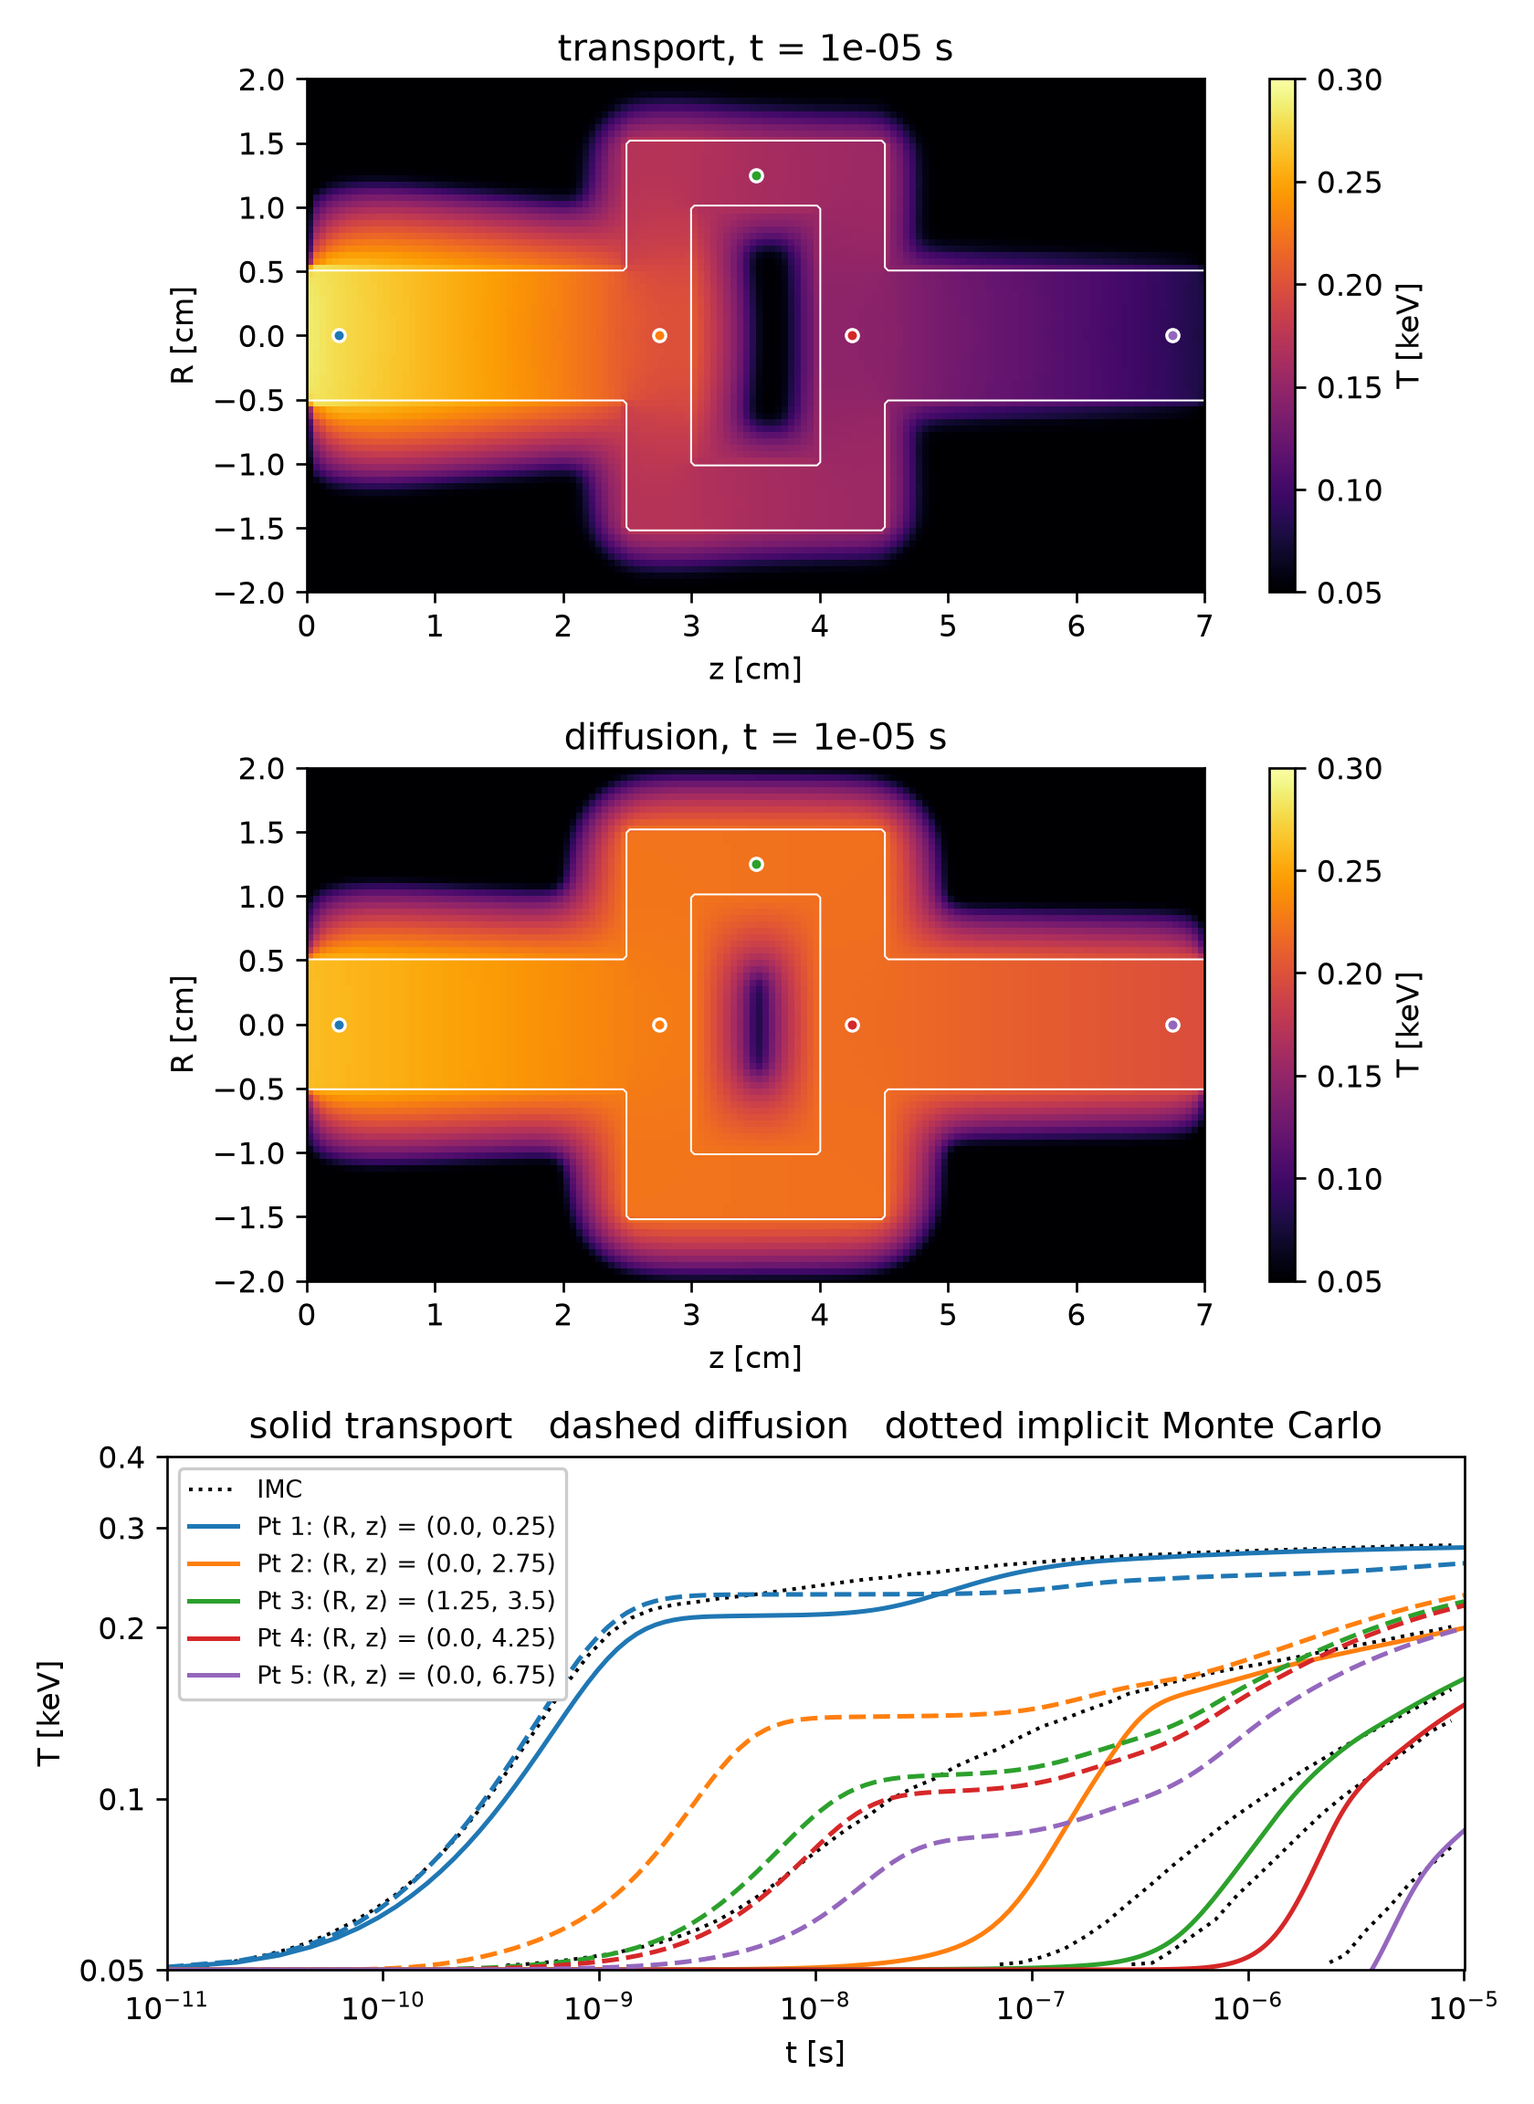
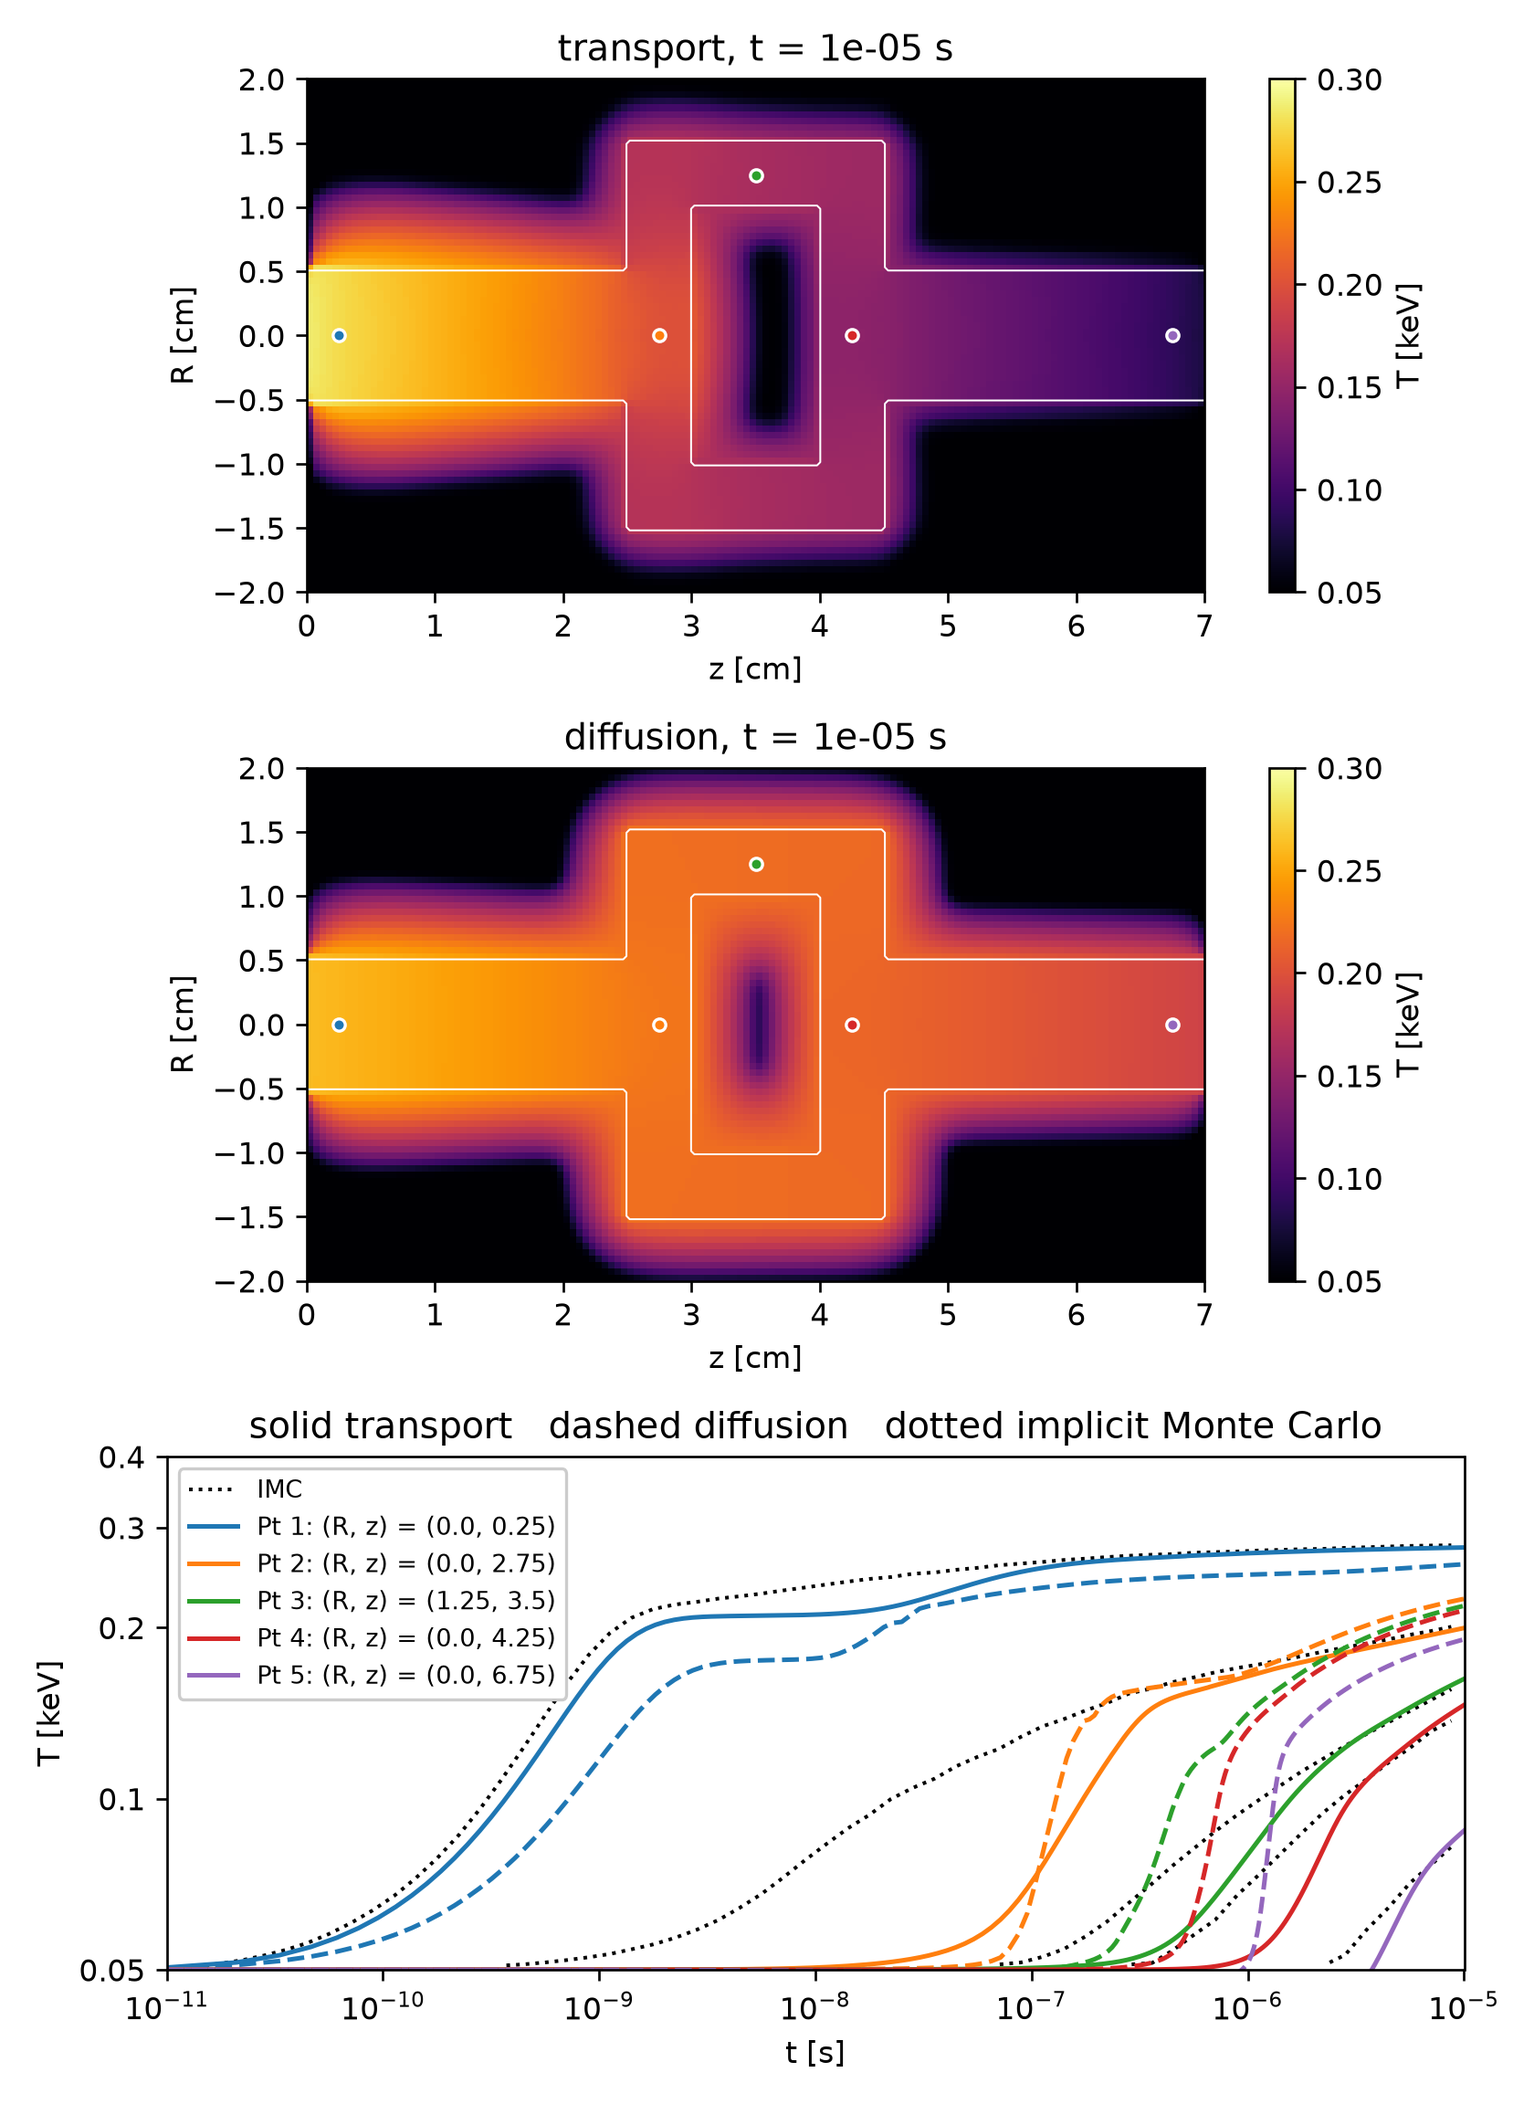
add powerlaw averaging to radn

diff --git a/adirondax/radiation/fld2d.py b/adirondax/radiation/fld2d.py
@@ -4,7 +4,7 @@ from jax import lax
 from jax.scipy.sparse.linalg import cg, gmres
 
 from .planck import group_emission
-from .rt2d import _MIRRORED, _converged, _face_areas_x, _solve_temperature
+from .rt2d import _MIRRORED, _face_areas_x, _solve_temperature
 
 # Pure functions for implicit, multigroup, flux-limited radiation diffusion in 2D
 # (x,y) and axisymmetric (R,z) geometry
@@ -26,7 +26,7 @@ from .rt2d import _MIRRORED, _converged, _face_areas_x, _solve_temperature
 # Not yet included: the Doppler shift of photons between frequency groups.
 
 LIMITERS = ("levermore_pomraning", "larsen", "max", "none")
-FACE_AVERAGES = ("harmonic", "arithmetic")
+FACE_AVERAGES = ("power_law", "harmonic", "arithmetic")
 
 
 def _diffusion_coefficient(sigma, g, c, limiter):
@@ -57,19 +57,53 @@ def _diffusion_coefficient(sigma, g, c, limiter):
     return c * D
 
 
-def _face_coefficient(s_lo, s_hi, g, c, limiter, face_average):
+def _phi(z):
+    """(e^z - 1) / z, which is 1 at z = 0"""
+
+    small = jnp.abs(z) < 1.0e-6
+    z_safe = jnp.where(small, 1.0, z)
+    return jnp.where(small, 1.0 + 0.5 * z, jnp.expm1(z_safe) / z_safe)
+
+
+def _power_law_opacity(s_lo, s_hi, E_lo, E_hi):
     """
-    The diffusion coefficient D and the flux limiter lambda = sigma D / c on a
-    face between cells of opacities s_lo and s_hi. The face opacity is either
-    their mean ('harmonic': the harmonic mean of the cells' diffusion
-    coefficients, right for steady flow across a material interface) or their
-    harmonic mean ('arithmetic': the arithmetic mean of the cells' diffusion
-    coefficients, right for a heat front in one material, where the opacity of
-    the cold side would otherwise choke the flux). The flux limiter then acts
-    on the face opacity.
+    The face opacity whose diffusion coefficient is the exact mean of that of
+    the cells, D ~ 1/sigma, over the energy densities between them, if it
+    varies as a power of the energy density in between:
+      1/sigma_face = (1/sigma_lo) phi(u + v) / phi(u),
+    with u = ln(E_hi/E_lo), v = ln(sigma_lo/sigma_hi) and phi(z) = (e^z - 1)/z.
+    This is right at a heat front, where the opacity of the cold side would
+    otherwise choke the flux; between cells of equal energy density, at a
+    material interface, it is the logarithmic mean of their coefficients.
     """
 
-    if face_average == "harmonic":
+    # (logarithms of a quotient would have an infinite derivative at E = 0)
+    tiny = jnp.finfo(jnp.result_type(s_lo, E_lo)).tiny
+
+    def log(x):
+        return jnp.log(jnp.maximum(jnp.abs(x), tiny))
+
+    u = log(E_hi) - log(E_lo)
+    v = log(s_lo) - log(s_hi)
+    u = jnp.clip(u, -500.0, 500.0)
+    w = jnp.clip(u + v, -500.0, 500.0)
+    return s_lo * _phi(u) / _phi(w)
+
+
+def _face_coefficient(s_lo, s_hi, g, c, limiter, face_average, E_lo, E_hi):
+    """
+    The diffusion coefficient D and the flux limiter lambda = sigma D / c on a
+    face between cells of opacities s_lo and s_hi and energy densities E_lo and
+    E_hi. The face opacity is that of _power_law_opacity ('power_law'), their
+    mean ('harmonic': the harmonic mean of the cells' diffusion coefficients,
+    right for steady flow across a material interface) or their harmonic mean
+    ('arithmetic': the arithmetic mean of the cells' diffusion coefficients).
+    The flux limiter then acts on the face opacity.
+    """
+
+    if face_average == "power_law":
+        sigma = _power_law_opacity(s_lo, s_hi, E_lo, E_hi)
+    elif face_average == "harmonic":
         sigma = 0.5 * (s_lo + s_hi)
     elif face_average == "arithmetic":
         tiny = jnp.finfo(jnp.result_type(s_lo, s_hi)).tiny
@@ -139,16 +173,21 @@ def _conductance(E, sigma_t, dx, c, limiter, axis, bc, ghost, face_average):
     s_lo, s_hi = _sides(_pad_edges(sigma_t, axis, bc), axis)
 
     tiny = jnp.finfo(E.dtype).tiny
-    E_face = 0.5 * (jnp.abs(E_lo) + jnp.abs(E_hi))
-    g = jnp.abs(E_hi - E_lo) / jnp.maximum(dx * E_face, tiny)
-    k = _face_coefficient(s_lo, s_hi, g, c, limiter, face_average)[0] / dx
+    # the gradient relative to the upwind energy density, so that the free
+    # streaming flux, c E_upwind, does not grow with the energy density
+    # downstream (which can make large implicit steps oscillate)
+    E_up = jnp.maximum(jnp.abs(E_lo), jnp.abs(E_hi))
+    g = jnp.abs(E_hi - E_lo) / jnp.maximum(dx * E_up, tiny)
+    k = _face_coefficient(s_lo, s_hi, g, c, limiter, face_average, E_lo, E_hi)[0] / dx
 
     if bc in _MIRRORED:
         zero = jnp.zeros_like(lax.index_in_dim(k, 0, axis + 1, keepdims=False))
         k = _set_ends(k, axis, zero, zero)
     elif bc in ("outflow", "driven"):
         # the gradient across the half cell to the boundary is twice as steep
-        D_b = _face_coefficient(s_lo, s_hi, 2.0 * g, c, limiter, face_average)[0]
+        D_b = _face_coefficient(
+            s_lo, s_hi, 2.0 * g, c, limiter, face_average, E_lo, E_hi
+        )[0]
         k_b = 1.0 / (0.5 * dx / jnp.maximum(D_b, tiny) + 2.0 / c)
         ax = axis + 1
         k = _set_ends(
@@ -186,13 +225,28 @@ def _flux_limiter(E, sigma_t, dx, limiter, axis, bc, ghost, face_average):
 
     tiny = jnp.finfo(E.dtype).tiny
     grad = (E_hi - E_lo) / dx
-    E_face = 0.5 * (jnp.abs(E_lo) + jnp.abs(E_hi))
-    g = jnp.abs(E_hi - E_lo) / jnp.maximum(dx * E_face, tiny)
-    lam = _face_coefficient(s_lo, s_hi, g, 1.0, limiter, face_average)[1]
+    # the gradient relative to the upwind energy density, so that the free
+    # streaming flux, c E_upwind, does not grow with the energy density
+    # downstream (which can make large implicit steps oscillate)
+    E_up = jnp.maximum(jnp.abs(E_lo), jnp.abs(E_hi))
+    g = jnp.abs(E_hi - E_lo) / jnp.maximum(dx * E_up, tiny)
+    lam = _face_coefficient(s_lo, s_hi, g, 1.0, limiter, face_average, E_lo, E_hi)[1]
     if bc in _MIRRORED:
         zero = jnp.zeros_like(lax.index_in_dim(lam, 0, axis + 1, keepdims=False))
         lam = _set_ends(lam, axis, zero, zero)
     return lam, lam * grad
+
+
+def _converged(update, x, x0, tol):
+    """
+    Whether the largest update of the energy densities is small next to their
+    largest change over the step. A norm summed over the grid would let a few
+    cells, such as those at the mouth of an optically thin channel, stop short
+    of convergence, and their energy density oscillate from step to step.
+    """
+
+    floor = 100.0 * jnp.finfo(x.dtype).eps * jnp.max(jnp.abs(x))
+    return jnp.max(jnp.abs(update)) <= tol * jnp.max(jnp.abs(x - x0)) + floor
 
 
 def _divergence(F_x, F_y, A_x, A_y, vol):
@@ -268,7 +322,7 @@ def radiation_fld2d_step(
     ghost_x=None,
     ghost_y=None,
     flux_limiter="levermore_pomraning",
-    face_average="harmonic",
+    face_average="power_law",
     tol=1.0e-4,
     max_iter=1000,
     max_newton=50,
@@ -317,16 +371,16 @@ def radiation_fld2d_step(
       diffusion, which does not limit the flux in optically thin gas).
     face_average: str
       How the diffusion coefficient on a face is formed from those of the cells
-      on either side: their harmonic mean ('harmonic', from the mean opacity,
-      right for steady flow across a material interface) or their arithmetic
-      mean ('arithmetic', right for a heat front moving into cold material,
-      whose high opacity would otherwise choke it; with a flux limiter, it can
-      make the solution oscillate at a sharp interface between optically thin
-      and thick material).
+      on either side: 'power_law' (their mean over the energy densities between
+      the cells, taking it to vary as a power of the energy density: right both
+      for a heat front moving into cold, opaque material and across a material
+      interface), 'harmonic' (their harmonic mean, from the mean opacity: right
+      for steady flow across a material interface, but the opacity of the cold
+      side chokes a heat front) or 'arithmetic' (their arithmetic mean).
     tol: float
-      Tolerance of the Newton iteration: it stops once its last update of the
-      energy densities, summed over the grid, is this fraction of their change
-      over the step.
+      Tolerance of the Newton iteration: it stops once its largest update of
+      the energy densities is this fraction of their largest change over the
+      step.
     max_iter: int
       Maximum number of conjugate gradient (grey) or GMRES (multigroup)
       iterations per linear solve.
@@ -543,7 +597,7 @@ def radiation_fld2d_step(
 
 
 def radiation_fld_flux(
-    E, opacity, geom, c, flux_limiter="levermore_pomraning", face_average="harmonic"
+    E, opacity, geom, c, flux_limiter="levermore_pomraning", face_average="power_law"
 ):
     """
     The radiation flux F = -D grad E of each group at the cell centers, for

diff --git a/tests/test_examples.py b/tests/test_examples.py
@@ -215,15 +215,20 @@ def test_crooked_pipe():
     # the material heats up (to within a whisker: the far end of the pipe
     # first cools a little into the vacuum), and never beyond the source
     history = result["history"]
-    assert jnp.all(jnp.diff(history, axis=0) > -1e-5)
+    assert jnp.all(history > history[0] - 0.002)
     assert jnp.max(history) < 0.3
+
+    # without oscillating from step to step
+    dT = jnp.diff(history, axis=0)
+    flips = jnp.sign(dT[1:]) != jnp.sign(dT[:-1])
+    assert jnp.max(flips * jnp.minimum(jnp.abs(dT[1:]), jnp.abs(dT[:-1]))) < 1e-6
 
     # the tracers further down the pipe stay cooler
     assert jnp.all(jnp.diff(history[-1][jnp.array([0, 1, 3, 4])]) < 0.0)
 
-    assert history[-1][0] == pytest.approx(0.2604638, rel=rel_tol)
-    assert history[-1][4] == pytest.approx(0.2003466, rel=rel_tol)
-    assert jnp.mean(result["maps"][-1][1]) == pytest.approx(0.1513435, rel=rel_tol)
+    assert history[-1][0] == pytest.approx(0.2585830, rel=rel_tol)
+    assert history[-1][4] == pytest.approx(0.1895992, rel=rel_tol)
+    assert jnp.mean(result["maps"][-1][1]) == pytest.approx(0.1523108, rel=rel_tol)
 
 
 def test_marshak_wave():

diff --git a/tests/test_radiation_diffusion.py b/tests/test_radiation_diffusion.py
@@ -170,8 +170,8 @@ def test_flux_limiter_keeps_the_radiation_slower_than_light():
 def test_heat_front_advances_into_cold_opaque_material():
     """
     A heat front whose opacity falls steeply as it heats (sigma ~ T^-3)
-    advances into cold material with the arithmetic face average, while the
-    harmonic one lets the opacity of the cold side choke it
+    advances into cold material with the power-law (and arithmetic) face
+    average, while the harmonic one lets the opacity of the cold side choke it
     """
 
     nx, ny = 64, 2
@@ -209,6 +209,7 @@ def test_heat_front_advances_into_cold_opaque_material():
             W_, E_ = step(W_, E_)
         return float(jnp.max(jnp.where(W_["P"][:, 0] > 0.3, x, 0.0)))
 
+    assert depth("power_law") > 0.2
     assert depth("arithmetic") > 0.2
     assert depth("harmonic") < 0.12
 

diff --git a/examples/marshak_wave/marshak_wave.py b/examples/marshak_wave/marshak_wave.py
@@ -107,8 +107,6 @@ def set_up_simulation(r0, resolution_multiplier=2):
         "radiation": {
             "method": "diffusion",
             "flux_limiter": "none",
-            "face_average": "arithmetic",
-            "tol": 1.0e-8,
         },
     }
 

diff --git a/docs/pages/equations.rst b/docs/pages/equations.rst
@@ -432,14 +432,29 @@ where the flux limiter :math:`\lambda(R)` (``radiation.flux_limiter``) goes to
 Levermore & Pomraning (1981), :math:`\lambda = (2+R)/(6+3R+R^2)`
 (``'levermore_pomraning'``); :math:`(9+R^2)^{-1/2}` (``'larsen'``);
 :math:`1/\max(3, R)` (``'max'``); or plain diffusion, :math:`\lambda = 1/3`
-(``'none'``), which does not cap the flux. The diffusion coefficient on a face
-is the harmonic mean of those of the cells on either side
-(``radiation.face_average = 'harmonic'``, from their mean opacity), which is
-right for steady flow across a material interface, or their arithmetic mean
-(``'arithmetic'``), which a heat front moving into cold, opaque material needs:
-with the harmonic mean, the opacity of the cold side chokes it (see the Marshak
-wave example). With a flux limiter, the arithmetic mean can make the solution
-oscillate at a sharp interface between optically thin and thick material.
+(``'none'``), which does not cap the flux.
+
+The diffusion coefficient on a face is the mean of :math:`D \propto 1/\sigma_t`
+over the energy densities between the two cells, taking it to vary as a power
+of the energy density in between:
+
+.. math::
+
+   \frac{1}{\sigma_\mathrm{face}}
+     = \frac{1}{\sigma_{t,L}}\,\frac{\phi(u+v)}{\phi(u)},
+   \qquad
+   u = \ln\frac{E_R}{E_L},
+   \quad v = \ln\frac{\sigma_{t,L}}{\sigma_{t,R}},
+   \quad \phi(z) = \frac{e^z - 1}{z}
+
+on which the flux limiter then acts (``radiation.face_average = 'power_law'``,
+the default). This is exact for an opacity that is a power of the temperature,
+and lets a heat front move into cold, opaque material: the mean opacity of the
+two cells (``'harmonic'``, the harmonic mean of their diffusion coefficients)
+would let the cold side choke it (see the Marshak wave example). Between cells
+of equal energy density, at a material interface, it is the logarithmic mean of
+their diffusion coefficients, which lies between the harmonic mean and the
+arithmetic mean (``'arithmetic'``).
 
 The diffusion, the flux limiter and the exchange of energy with the gas are
 solved together, implicitly: the limiter is evaluated from the energy density

diff --git a/examples/marshak_wave/README.md b/examples/marshak_wave/README.md
@@ -39,9 +39,10 @@ radiation's own heat capacity, about a tenth of the foam's at 2 HeV, slows the
 wave by a few percent.
 
 The radiation is solved by flux-limited diffusion, without a limiter (as in the
-paper), and with the diffusion coefficient on each face averaged arithmetically
-between its two cells: averaged harmonically, the opacity of the cold foam would
-choke the front.
+paper). The diffusion coefficient on each face is averaged over the steep rise
+of the opacity between its two cells (the default `face_average = 'power_law'`):
+the mean opacity of the two cells (`'harmonic'`) would let the cold foam choke
+the front.
 
 The movie shows the temperature across the cylinder for `r0` = 0.1 cm.
 

diff --git a/examples/crooked_pipe/README.md b/examples/crooked_pipe/README.md
@@ -37,8 +37,8 @@ spatial resolution, rather than the angular: halving the cells cuts it
 from 5x to 2.6x, while 64 directions instead of 16 hardly change it.
 
 Flux-limited diffusion (dashed lines) fails, as it is known to: it carries the
-radiation around the bends far too easily, heats the far end of the pipe
-hundreds of times too early, and leaves it more than twice too hot. With
+radiation around the bends far too easily, heats the third, fourth and fifth
+points three to five times too early, and leaves the far end twice too hot. With
 transport, the radiation that reaches the walls is soaked up by them, and only
 the heated walls slowly pass it along.
 
